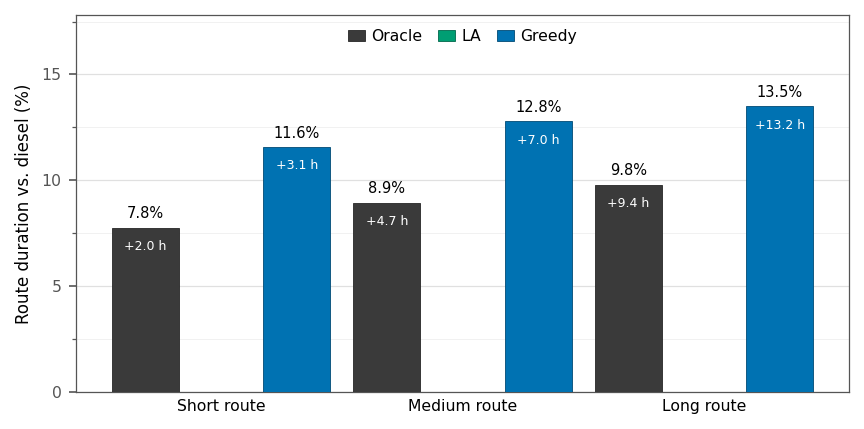
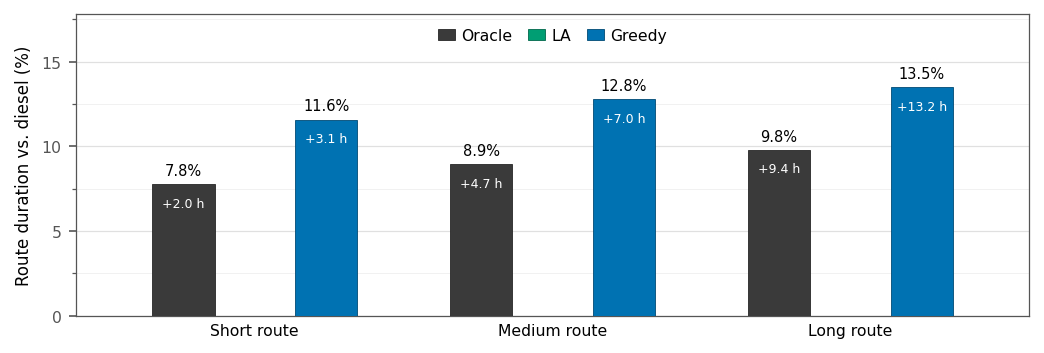
correct LA diesel

Changed region(s): [[0.0, 0.0312, 1.0, 0.966], [0.1875, 0.6544, 0.2188, 0.6856]]

diff --git a/src/plot/additional_figures.py b/src/plot/additional_figures.py
@@ -566,7 +566,10 @@ def section_diesel():
     # edge, major+minor grid on the response axis, one in-axes legend, and NO
     # title of any kind — the LaTeX \caption carries it (see results_section).
     routes = [r for r in DIESEL_ROUTES if r in per_class]
-    fig, ax = plt.subplots(figsize=(5.8, 2.9))
+    # Wide and low: three route groups of three bars read as a single band
+    # across the text width, and the vertical axis spans ~15 pp, which needs no
+    # height to be legible.  7.0 in is \textwidth in the paper's layout.
+    fig, ax = plt.subplots(figsize=(7.0, 2.4))
     x = np.arange(len(routes), dtype=float)
     # Colour follows the entity (paper_style): the same neutral grey as the
     # oracle, the same green as LA and the same blue as Greedy everywhere else
@@ -577,12 +580,18 @@ def section_diesel():
               ("LA", "pen_l", "dt_l", GREEN),
               ("Greedy", "pen_g", "dt_g", BLUE)]
     # Width from the series count, so the group re-packs instead of overflowing
-    # into its neighbour when a series is added.
-    w = 0.94 / len(series) - 0.035
+    # into its neighbour when a series is added.  The group is sized to a
+    # FRACTION of the unit stride, not to fill it: at 0.94 the three bars left
+    # a 0.06 gap between route classes, narrower than the gaps inside a group,
+    # and the eye then grouped a bar with its neighbour's group instead of its
+    # own.  0.72 keeps the between-group gap (0.31) wider than the within-group
+    # one (0.03), which is what makes the grouping readable.
+    _GROUP, _PAD = 0.72, 0.03
+    w = _GROUP / len(series) - _PAD
     for k, (lbl, key, dkey, col) in enumerate(series):
         vals = [_mean(per_class[r][key]) for r in routes]
         hrs  = [_mean(per_class[r][dkey]) for r in routes]
-        pos  = x + (k - (len(series) - 1) / 2) * (w + 0.035)
+        pos  = x + (k - (len(series) - 1) / 2) * (w + _PAD)
         # nan, not 0: a suppressed class must leave a gap, not draw a bar at
         # zero that reads as "no penalty".
         ax.bar(pos, [np.nan if v is None else v for v in vals], w, color=col,
@@ -773,7 +782,9 @@ def _diesel_by_tw(routes, oracle_ok, scope) -> None:
     x = np.arange(len(tw_order))
     series = [("Oracle", "pen_o", INK), ("LA", "pen_l", GREEN),
               ("Greedy", "pen_g", BLUE)]
-    w = 0.90 / len(series)
+    # As in the headline figure: the group takes 0.72 of the unit stride so the
+    # window classes stay visually separate as series are added.
+    w = 0.72 / len(series)
     top = 0.0
     for ax, route in zip(axes, routes):
         for k, (lbl, key, col) in enumerate(series):

diff --git a/src/simulation/Simulation.py b/src/simulation/Simulation.py
@@ -202,6 +202,9 @@ def enumerate_actions(stop: int, state, full_data: dict, delta_rng: float = 0.0,
     Action dict keys: y (0/1), break_type (None/"b45"/"b15"/"b30"),
                       rest_type (None/"r1"/"r2").
 
+    A vehicle with no charging (full_data["no_charging"], the §8.4 diesel
+    transform) enumerates y=0 only, in both modes below.
+
     charge_only=True  (recommended for large instances)
     ────────────────
     Only the charge binary y is enumerated; break_type and rest_type are set
@@ -219,7 +222,10 @@ def enumerate_actions(stop: int, state, full_data: dict, delta_rng: float = 0.0,
     Here None means "no break/rest" (an explicit decision), not "free choice".
     """
     K_set     = set(full_data["K"])
-    is_CS     = stop in K_set
+    # A vehicle that cannot take energy has no charge decision to make: the K
+    # stops remain break-eligible, but y is fixed at 0 rather than enumerated
+    # and scored.  Set by runner_dispatch._apply_diesel_mode (§8.4).
+    is_CS     = stop in K_set and not full_data.get("no_charging")
     batt_full = state.e_arr > 0.98 * full_data["Ecap"] or stop >= full_data["N"]
 
     # Sea crossing: the vehicle is aboard for a known duration, so there is

diff --git a/src/simulation/runner_dispatch.py b/src/simulation/runner_dispatch.py
@@ -162,6 +162,16 @@ def _apply_diesel_mode(full_data: dict, D_real: list, E_real: list) -> tuple:
     data["Q"]     = {k: 0.0 for k in data["K"]}
     data["M_seq"] = {k: 0.0 for k in data["K"]}
 
+    # Stated, not left to be inferred.  Zeroing E already makes y=1 INFEASIBLE
+    # in the sub-problem (SOC is pinned at Ecap, so the PWL forces tauc=0 while
+    # chg_act2 requires tauc >= 0.25*y), which is why the diesel results were
+    # right — but LA enumerates its candidate actions before it knows that, so
+    # it was scoring a charge action against all 25 scenarios at every K stop
+    # only to have every one of them come back infeasible.  Simulation.
+    # enumerate_actions reads this flag and stops emitting them.  This module
+    # is its only producer.
+    data["no_charging"] = True
+
     # Distinct title so the oracle cache is separate from the EV version.
     # Idempotent: the diesel instance COPIES are already named "..__diesel",
     # and since the title is now derived from the file stem, appending again
